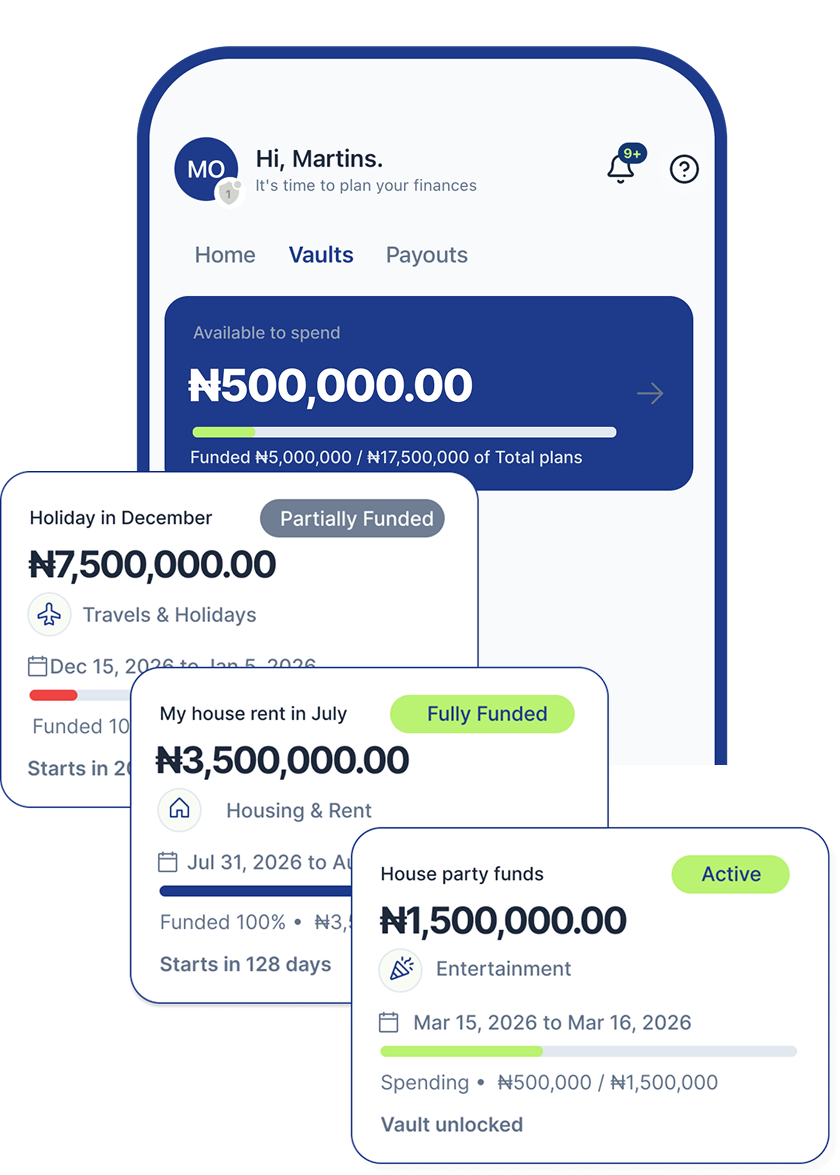
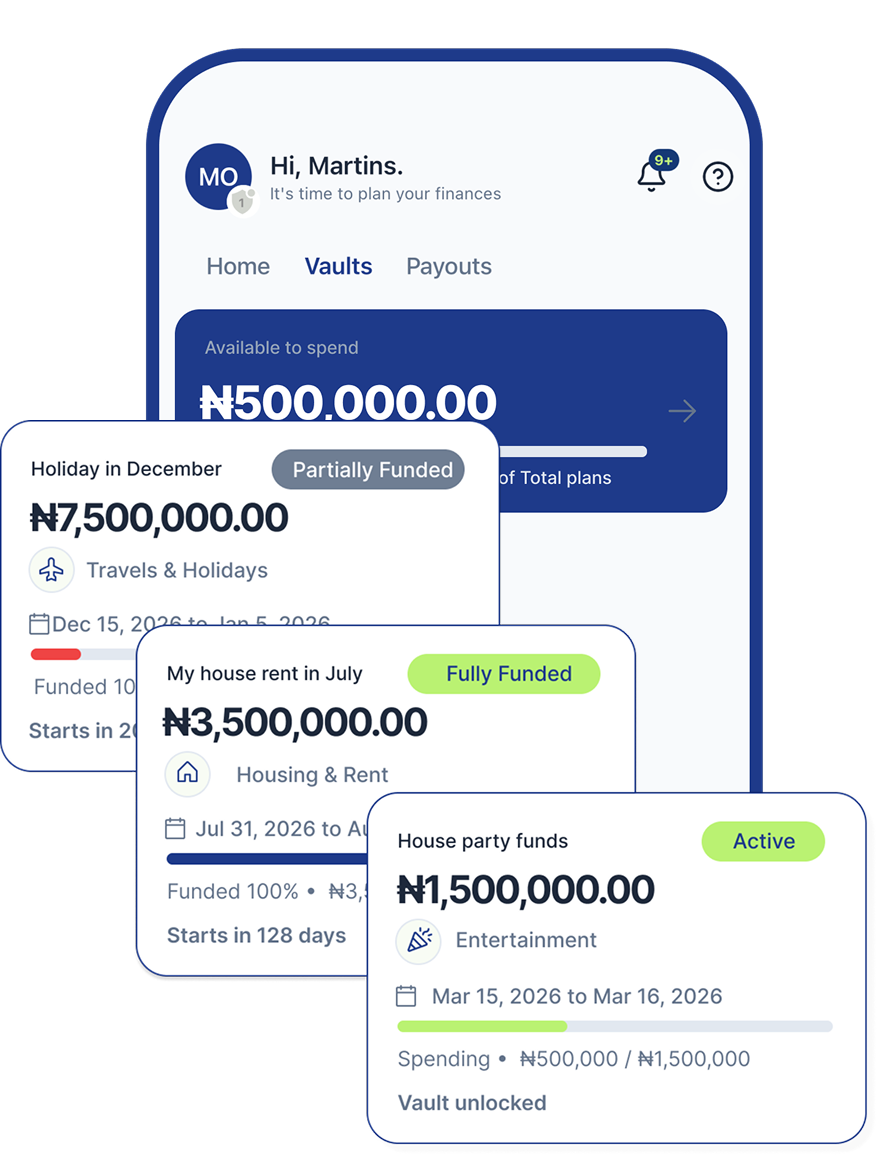
Ok

Changed region(s): [[0.0, 0.0312, 0.9905, 0.9662]]

diff --git a/hooks/useExpensePlans.ts b/hooks/useExpensePlans.ts
@@ -628,7 +628,9 @@ export function useExpensePlans() {
             {
               event: '*',
               schema: 'public',
-              table: 'expense_plans',
+              // Vault plans are stored in budget_plans.
+              // Subscribing to expense_plans prevents live updates on create/fund.
+              table: 'budget_plans',
               filter: `user_id=eq.${session.user.id}`,
             },
             async (payload: any) => {

diff --git a/app/expense-planner/index.tsx b/app/expense-planner/index.tsx
@@ -52,7 +52,7 @@ export default function ExpensePlannerOverviewScreen() {
         <Pressable onPress={handleBack} style={styles.backButton}>
           <ArrowLeft size={24} color={colors.text} />
         </Pressable>
-        <Text style={styles.headerTitle}>Expense Plans</Text>
+        <Text style={styles.headerTitle}>Your Vaults</Text>
         <Pressable
           onPress={handleCreatePlan}
           style={styles.createButton}

diff --git a/docs/VAULTS_ADMIN_PANEL_README.md b/docs/VAULTS_ADMIN_PANEL_README.md
@@ -1,0 +1,204 @@
+# Vaults Implementation README (Admin Panel)
+
+This README explains how Vaults are implemented in this app and what your Admin panel should read, display, and manage.
+
+## Scope
+
+- Vault core model (creation, funding, spending lifecycle)
+- Vault scheduled payouts
+- How vault schedules are routed into the main payout pipeline
+- Realtime behavior your Admin UI should expect
+- Recommended admin queries and filters
+
+---
+
+## 1) Core Vault Model
+
+Vaults are stored in `public.budget_plans` (canonical table).
+
+Related data:
+
+- `plan_wallets`: live vault balance ledger wallet
+- `plan_transactions`: vault ledger entries (`manual_topup`, `withdrawal`, `spending`, etc.)
+- `expense_plan_topups`: top-up records
+
+For admin listing, treat each `budget_plans` row as one vault and enrich it with:
+
+- `plan_wallets.balance` (if needed)
+- aggregate top-up and transaction history
+
+---
+
+## 2) Vault Scheduled Payout Model
+
+Scheduled payout rows are stored in:
+
+- `public.vault_payout_schedules`
+
+Key fields:
+
+- `user_id`, `budget_plan_id`, `payout_account_id`
+- `total_amount`, `payout_amount`, `net_payout_amount`
+- `fee_amount`, `fee_percentage`
+- `frequency`, `duration`, `start_date`, `next_payout_date`
+- `status` (`active`, `paused`, `completed`, `cancelled`)
+- `metadata`
+
+Creation entrypoint:
+
+- RPC: `public.create_vault_payout_schedule(...)`
+
+What this RPC does (current behavior):
+
+1. Validates ownership of vault and payout account.
+2. Computes fee math using `compute_payout_schedule_fees(...)`.
+3. Deducts committed amount upfront from vault (`plan_transactions` withdrawal).
+4. Creates `vault_payout_schedules` row.
+5. Creates a corresponding `payout_plans` row for main payout processing.
+6. Records fee audit via `record_user_fee(...)`.
+
+Important:
+
+- Vault schedule metadata includes `source_kind = 'vault_schedule'`.
+- This is used to avoid double-fee deduction in the payout trigger.
+
+---
+
+## 3) Integration into Main Payout Pipeline
+
+Vault schedules are intentionally routed into `public.payout_plans` so they appear with regular payout plans and are processed by the existing payout execution pipeline.
+
+Implementation detail:
+
+- Trigger function `deduct_plan_fee_on_insert()` skips rows where:
+  - `NEW.metadata->>'source_kind' = 'vault_schedule'`
+
+This prevents charging fees twice for vault-origin schedules.
+
+---
+
+## 4) Realtime / Refresh Behavior (Admin Expectations)
+
+Client vault list realtime is tied to:
+
+- table: `budget_plans` (not `expense_plans`)
+
+If your Admin panel needs immediate updates after vault create/fund/spend:
+
+- Subscribe to `budget_plans` changes
+- Optionally subscribe to `plan_transactions` and `expense_plan_topups` for detailed activity feed
+
+---
+
+## 5) Vault Totals Rules (for dashboard metrics)
+
+For “Funded / Total plans” style metrics, use the same rule now used in app:
+
+- Exclude non-`active` vaults
+- Exclude vaults that are both:
+  - started, and
+  - fully spent (`current_balance <= 0`)
+
+This avoids counting already exhausted vaults in total plans denominator.
+
+---
+
+## 6) Recommended Admin Queries
+
+### A) Vault list (with wallet balance)
+
+```sql
+SELECT
+  bp.id,
+  bp.user_id,
+  bp.name,
+  bp.status,
+  bp.start_date,
+  bp.end_date,
+  bp.total_budget,
+  bp.current_balance,
+  bp.created_at,
+  bp.updated_at,
+  pw.balance AS plan_wallet_balance
+FROM public.budget_plans bp
+LEFT JOIN public.plan_wallets pw
+  ON pw.plan_id = bp.id
+ORDER BY bp.created_at DESC;
+```
+
+### B) Vault schedule list
+
+```sql
+SELECT
+  vps.*,
+  pp.id AS payout_plan_id,
+  pp.status AS payout_plan_status
+FROM public.vault_payout_schedules vps
+LEFT JOIN public.payout_plans pp
+  ON pp.id = (vps.metadata->>'payout_plan_id')::uuid
+ORDER BY vps.created_at DESC;
+```
+
+### C) Vault ledger
+
+```sql
+SELECT *
+FROM public.plan_transactions
+WHERE plan_id = $1
+ORDER BY created_at DESC;
+```
+
+### D) Top-up history
+
+```sql
+SELECT *
+FROM public.expense_plan_topups
+WHERE budget_plan_id = $1
+ORDER BY created_at DESC;
+```
+
+### E) Vault schedule fee audit
+
+```sql
+SELECT *
+FROM public.user_fees
+WHERE metadata->>'kind' = 'vault_payout_schedule'
+ORDER BY created_at DESC;
+```
+
+---
+
+## 7) Admin UI Suggested Sections
+
+For each vault detail page:
+
+1. **Vault Summary**
+   - Name, owner, status, dates, total budget, current balance
+2. **Funding**
+   - Top-up history (`expense_plan_topups`)
+3. **Ledger**
+   - `plan_transactions` timeline
+4. **Scheduled Payouts**
+   - Linked `vault_payout_schedules`
+   - Linked `payout_plans` status
+5. **Fees**
+   - `fee_amount`, fee breakdown (from metadata/audit)
+
+---
+
+## 8) Security Notes
+
+- Do not use client anon keys for admin operations.
+- Run Admin panel read/write via server-side service role or privileged backend APIs.
+- Keep any service role secrets off frontend clients.
+
+---
+
+## 9) Source Files (Implementation References)
+
+- `supabase/migrations/20260326120000_vault_payout_schedules.sql`
+- `supabase/migrations/20260326150000_route_vault_schedules_into_main_payouts.sql`
+- `hooks/useExpensePlans.ts`
+- `hooks/useCreateVaultPayoutSchedule.ts`
+- `supabase/functions/process-vault-payout-schedules/index.ts` (stub)
+
